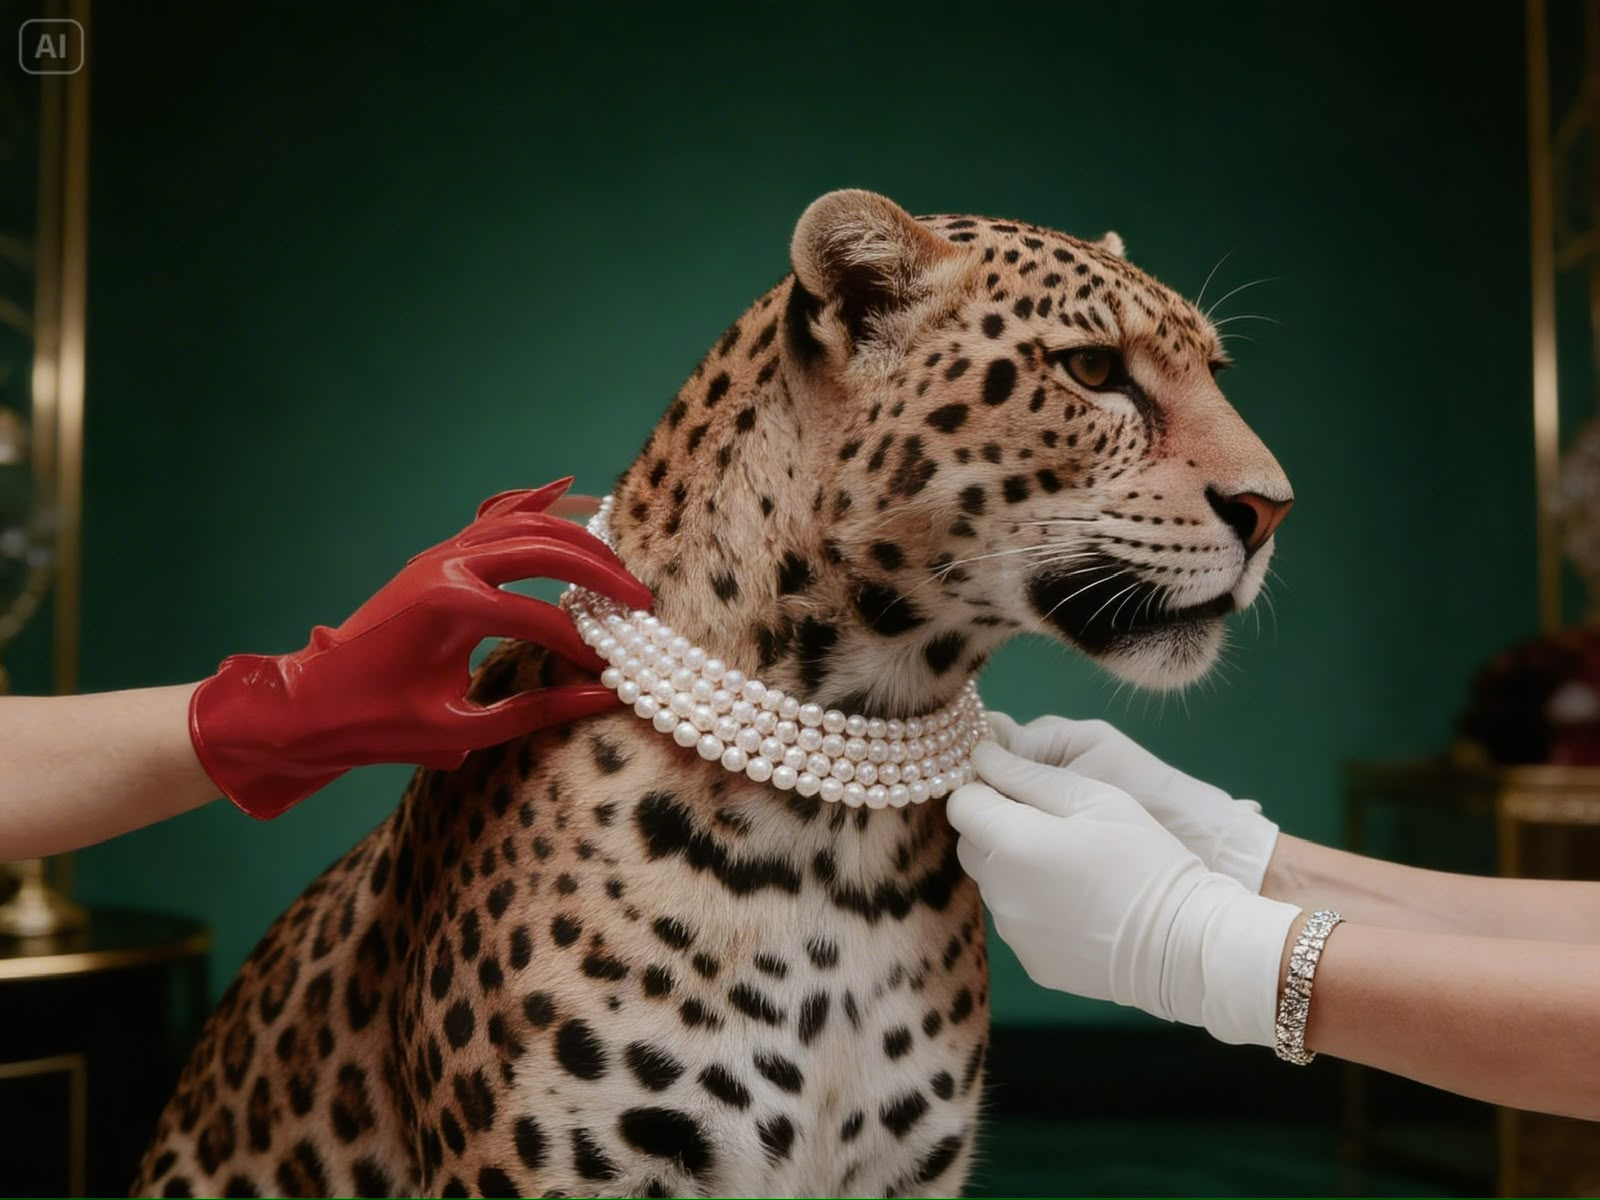
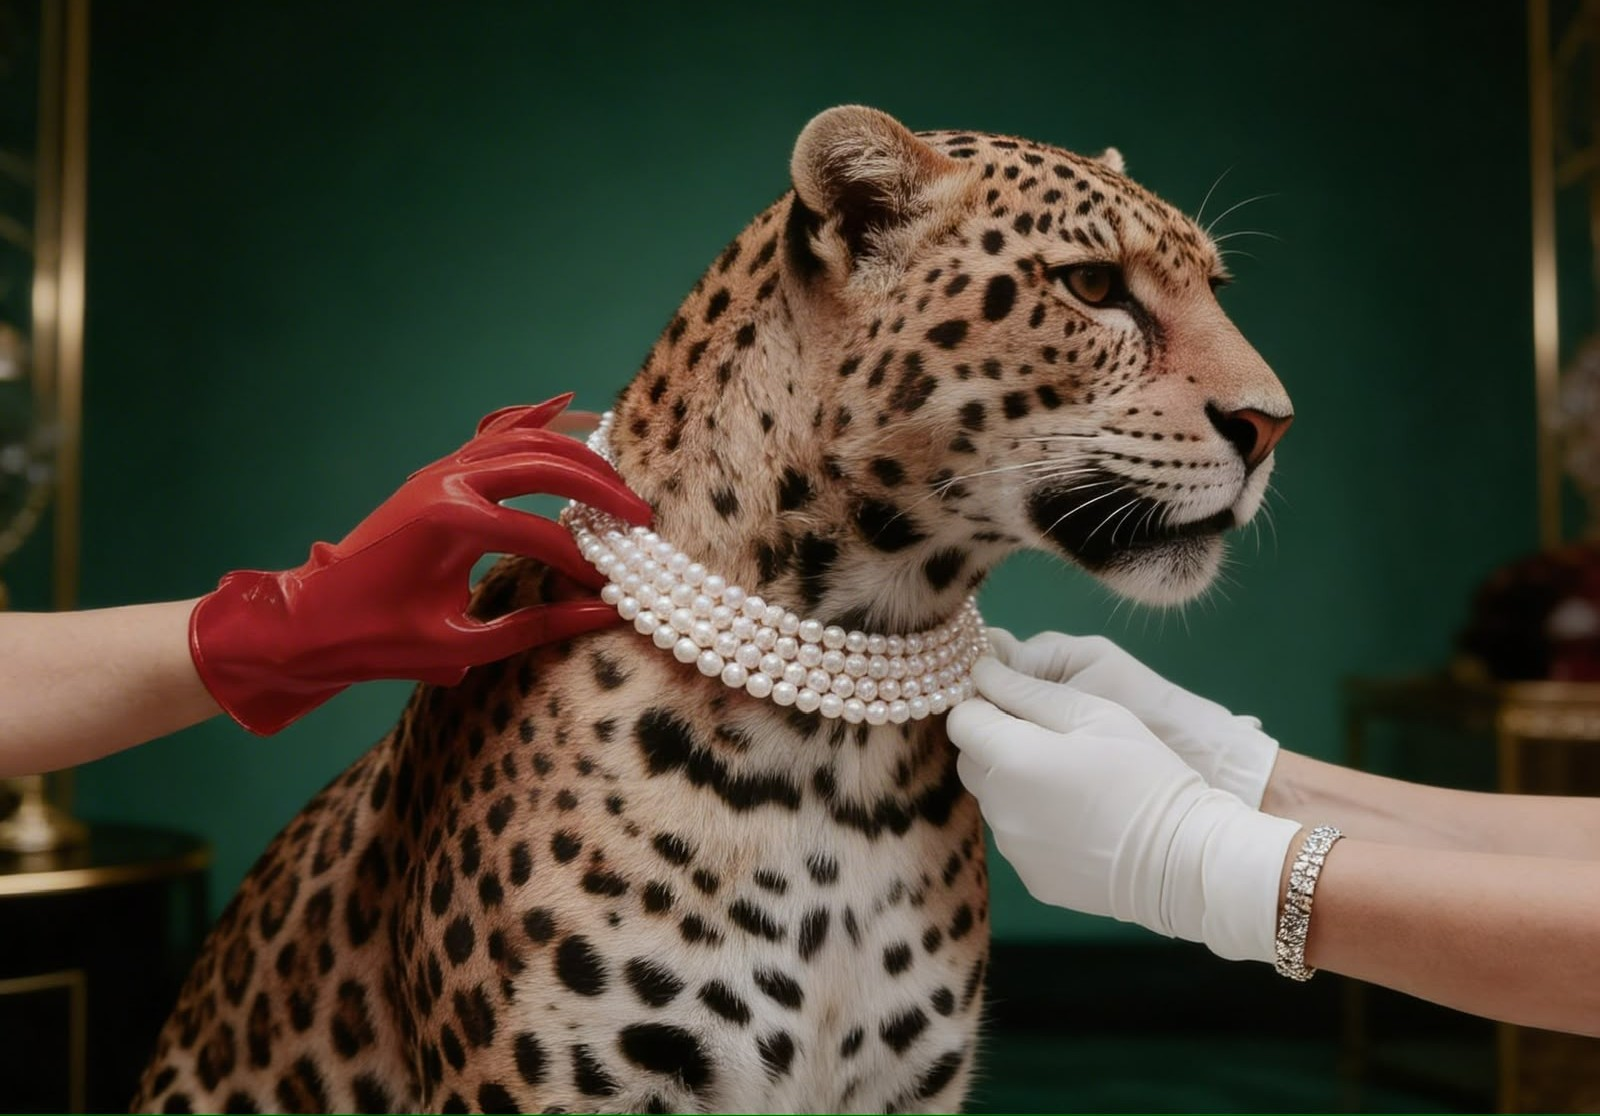
updated image

diff --git a/index.html b/index.html
@@ -876,7 +876,7 @@
       <h1>AI Visual<br>Production Studio</h1>
       <div class="hero-side">
         <h3>Because Creativity Has No Boundaries Neither Should the Way to Visualize It</h3>
-        <p>FTC WORLD builds brand visuals, including photos, video, and campaigns, entirely through AI. Focused entirely on creative visual production for brands.</p>
+        <p>FTC WORLD builds brand visuals including photos, video, and campaigns. Focused entirely on creative visual production for businesses.</p>
       </div>
     </div>
     <div class="hc-wrap">
